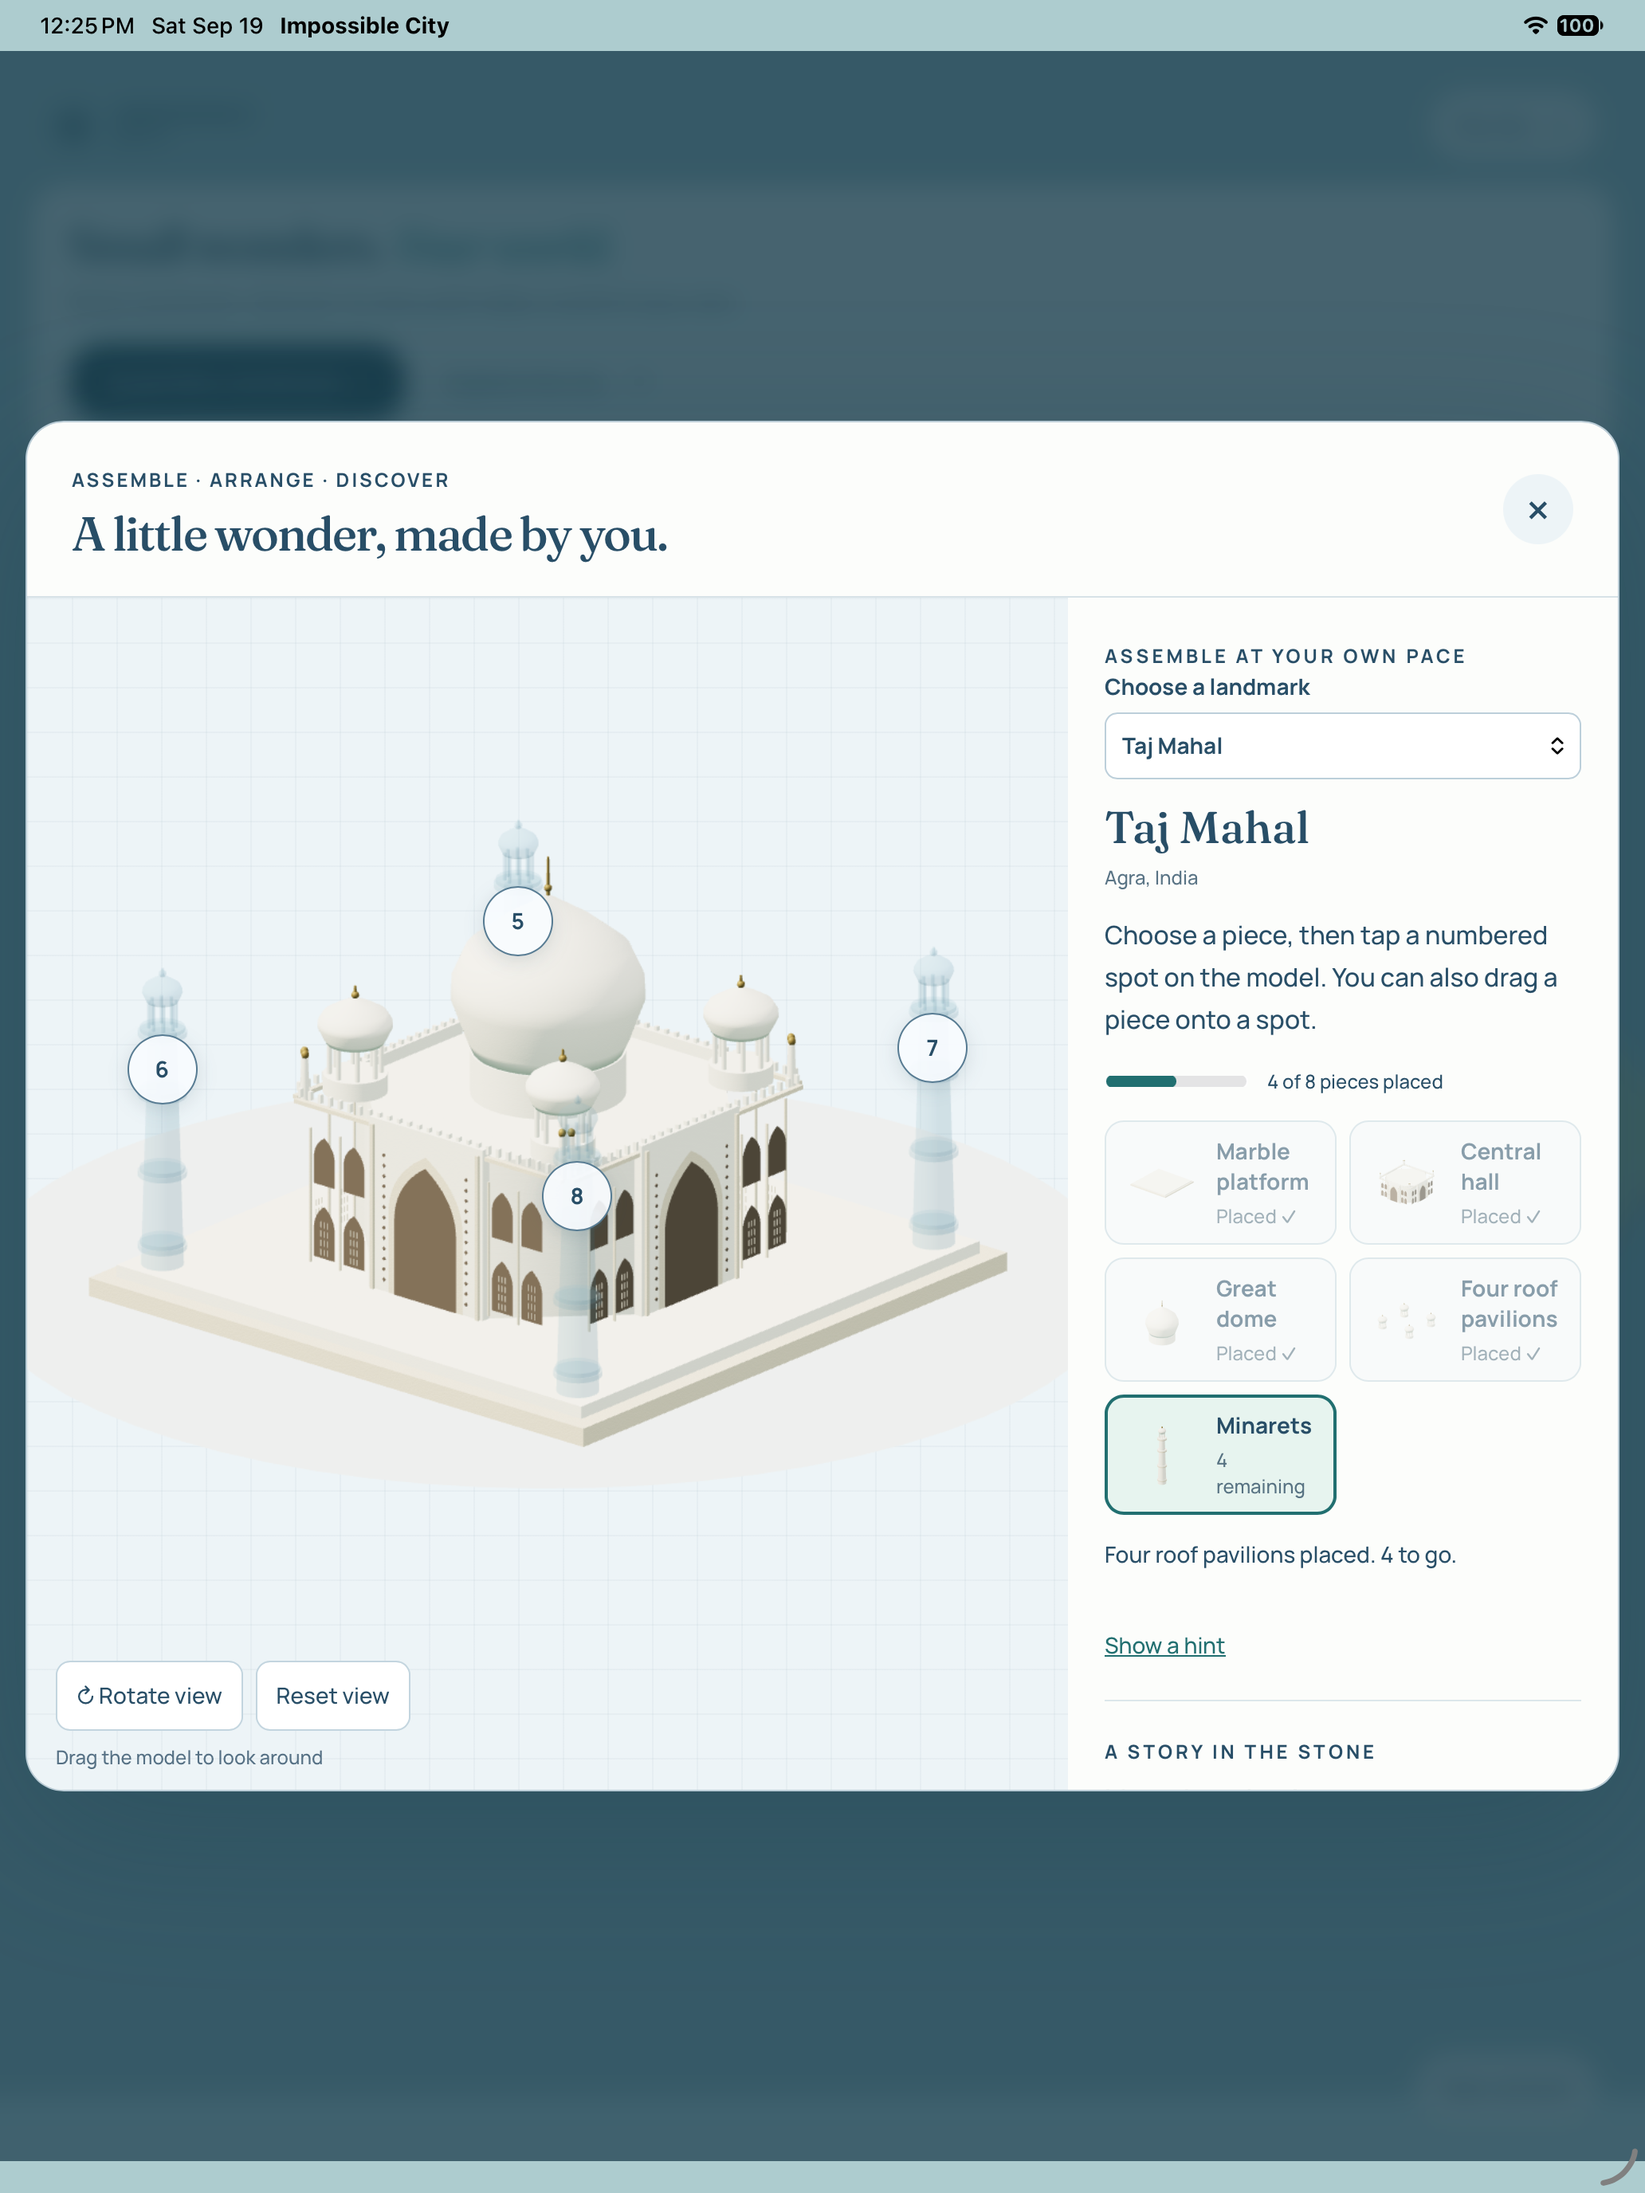
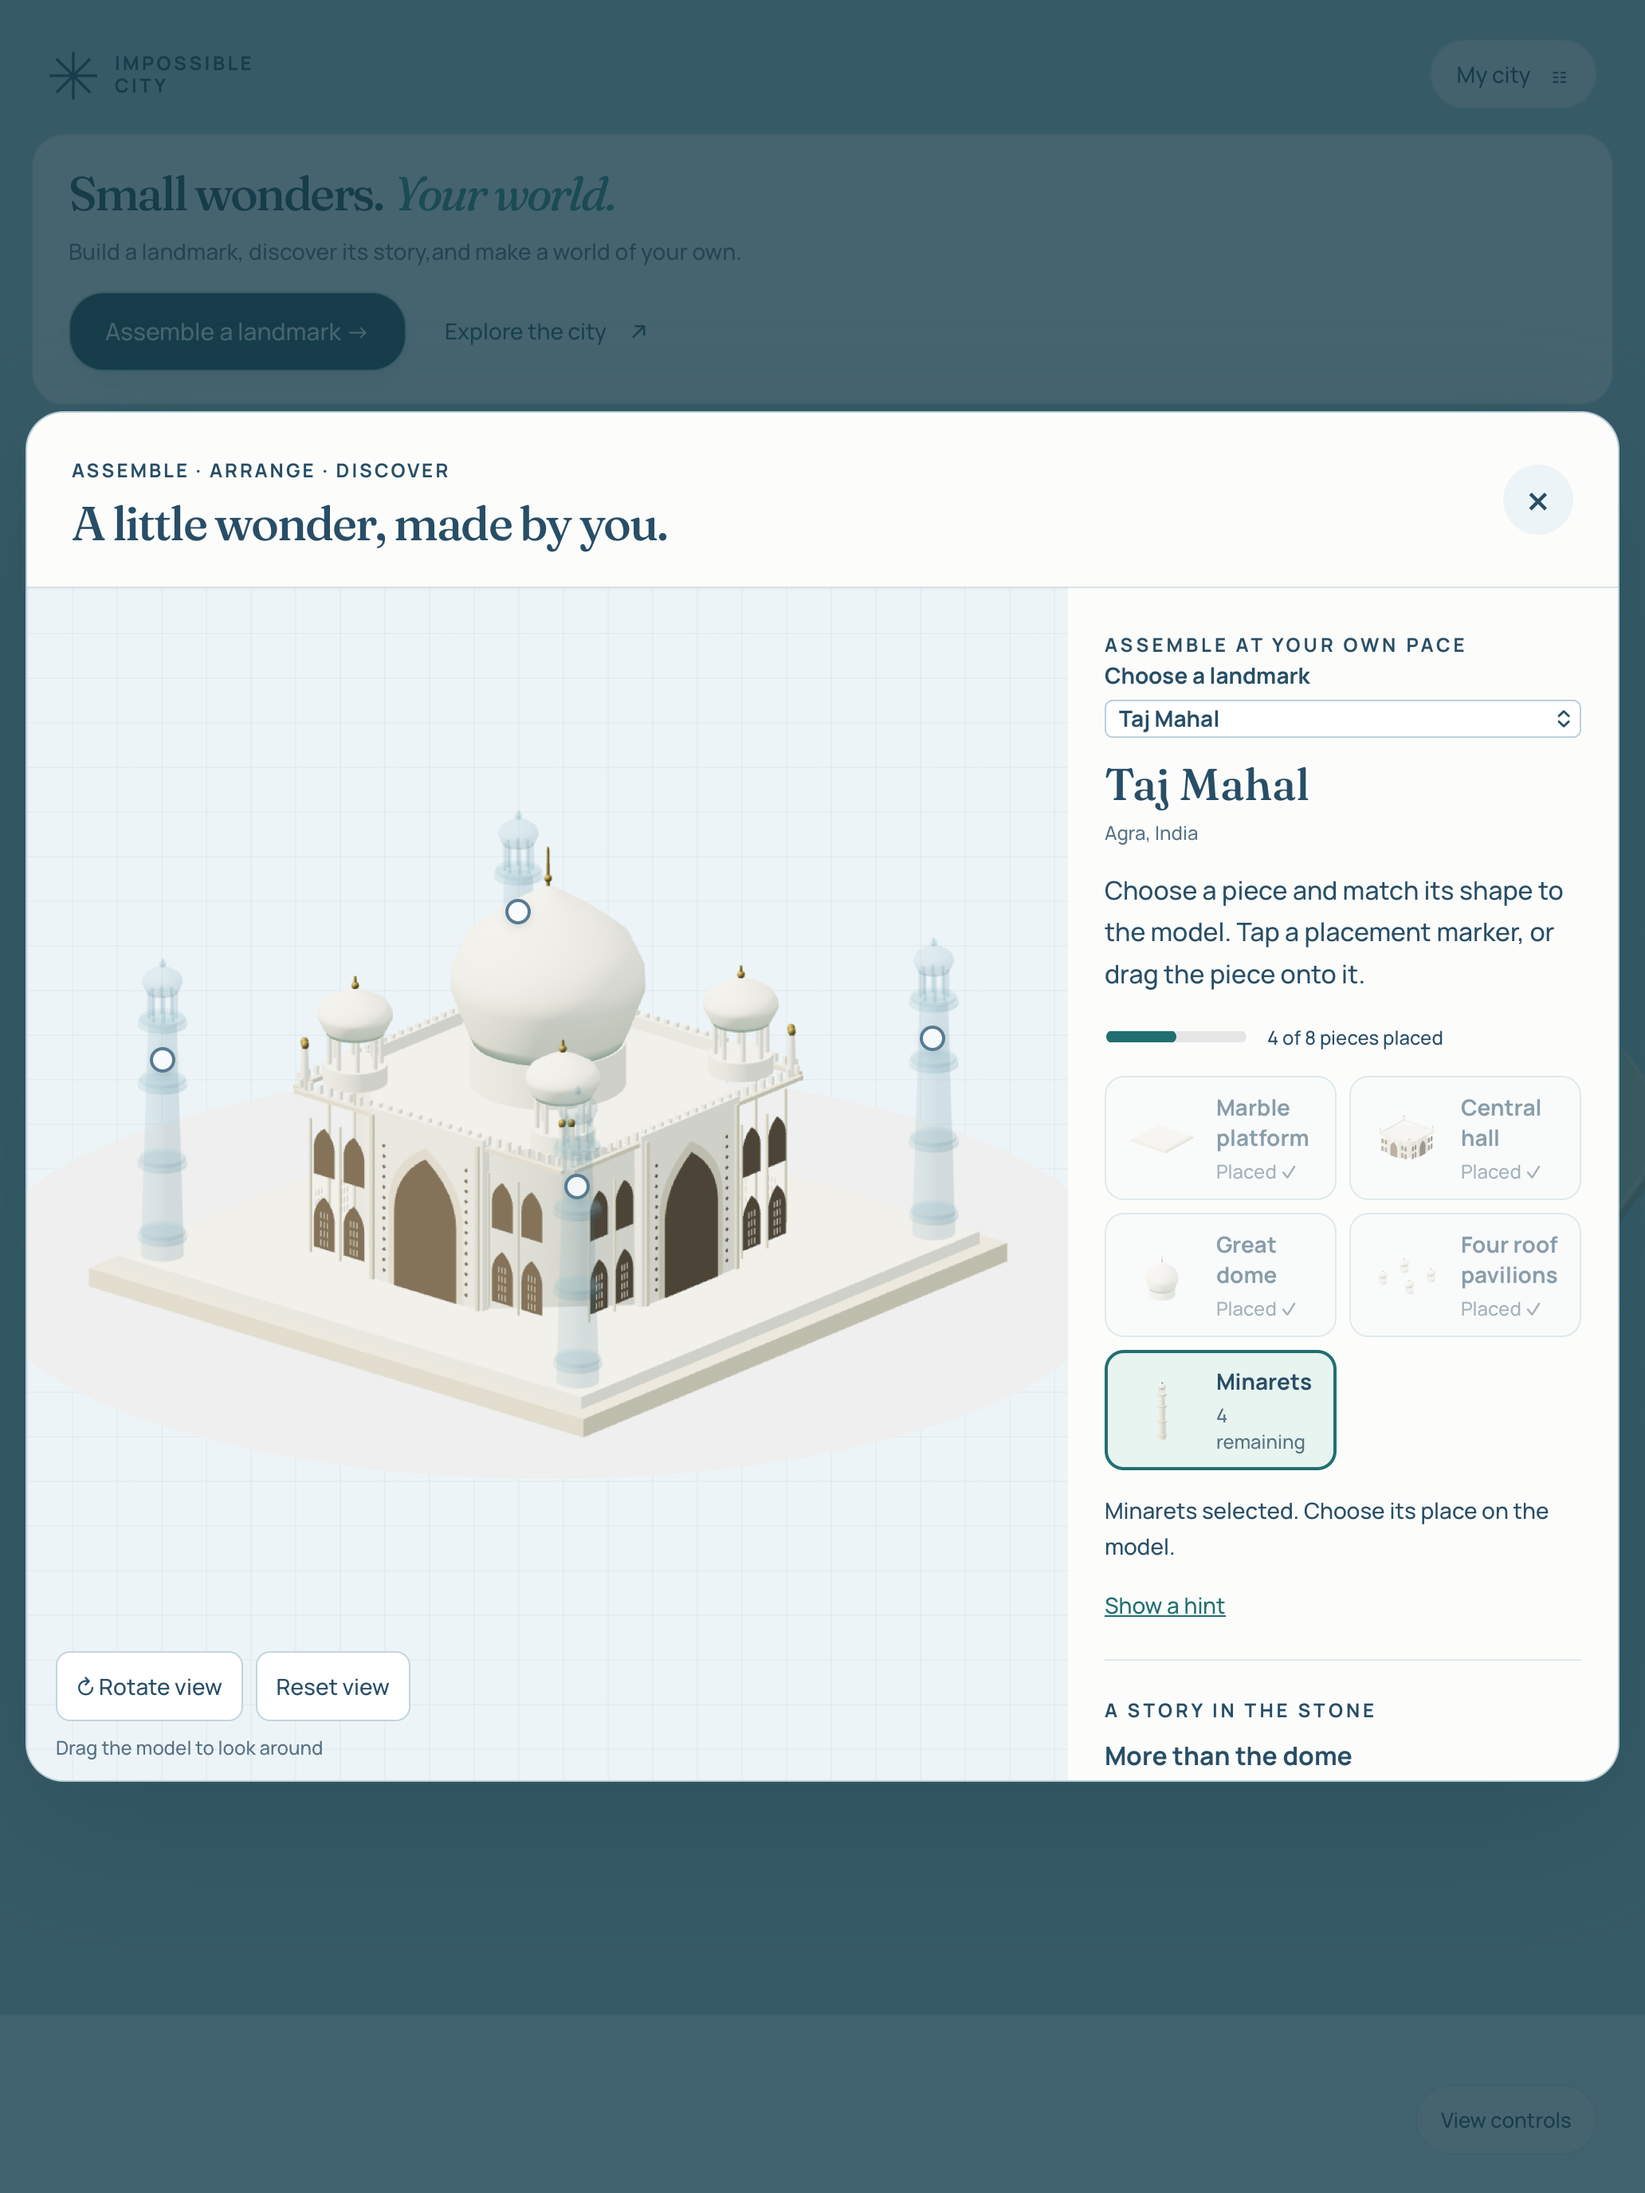
Show numberless assembly and $1.99 landmark pack plan

diff --git a/README.md b/README.md
@@ -24,13 +24,13 @@ Impossible City is being prepared for the Apple App Store. **It is not available
 | Sourced stories and close-up views | Brandenburg Gate and Space Needle |
 | Local progress and city saves | Assembly, stories and views for each added landmark |
 
-The intended launch offer is a free download with a **US $6.99 one-time Pro purchase**, with no subscription. Apple will display regional pricing when the purchase is available. Edition One includes the six additional landmarks above; future editions are separate.
+The intended launch offer is a free download with a **US $1.99 one-time Pro purchase**, with no subscription. Apple will display regional pricing when the purchase is available. Edition One includes the six additional landmarks above. Later add-on packs are planned in batches of six at US $1.99 per pack, sold separately after completion and testing. There is no promised release schedule.
 
 There is no timer. Build at your own pace, move a finished miniature into your city, and discover something about the place that inspired it. Models are artistic interpretations; puzzle sections do not represent historical construction sequences.
 
 ## A look inside
 
-Actual iPad simulator captures of the development candidate:
+A preview of the app in development:
 
 <table><tr><td><img src="assets/01-your-world.png" width="260" alt="The miniature city"></td><td><img src="assets/02-build-a-wonder.png" width="260" alt="Assembling the Taj Mahal"></td><td><img src="assets/03-discover-its-story.png" width="260" alt="Exploring the Eiffel Tower and its stories"></td></tr><tr><td>Your own city</td><td>Build a wonder</td><td>Discover its story</td></tr></table>
 

diff --git a/SUPPORT.md b/SUPPORT.md
@@ -14,7 +14,7 @@ Assembly progress stays on your device. Use Save in My City to keep your city an
 
 ## Pro purchases
 
-The intended US launch price is $6.99 once, with Apple's regional pricing shown in the app. Pro is not a subscription. Edition One contains the six listed additional landmarks; future editions are separate. Use Restore Purchases with the Apple Account that purchased it. Shared Apple-platform ownership still needs final store configuration and validation. Web and Android purchase sharing are not available. There is no external checkout or license-key seller.
+The intended US launch price is $1.99 once, with Apple's regional pricing shown in the app. Pro is not a subscription. Edition One contains the six listed additional landmarks. Future packs are planned as six puzzles for US $1.99 per pack and are separate purchases; they are not available yet. Use Restore Purchases with the Apple Account that purchased it. Shared Apple-platform ownership still needs final store configuration and validation. Web and Android purchase sharing are not available. There is no external checkout or license-key seller.
 
 ## Devices and connectivity
 

diff --git a/CREDITS.md b/CREDITS.md
@@ -9,3 +9,5 @@ Geographic references include [NYC Department of City Planning Borough Boundarie
 The retained bundled development library includes [Statue Of Unity India](https://sketchfab.com/3d-models/statue-of-unity-india-86ec4a3582694b84af4017db0d396398) by [Chenzoss](https://sketchfab.com/Chenzoss), [CC BY 4.0](https://creativecommons.org/licenses/by/4.0/). The source pedestal and visitors were removed; the figure was recentered, normalized to 182 metres, given a bronze material and exported at two levels of detail. It is an artist's interpretation, not an authenticated scan. It is not among the nine playable landmarks in this edition. No endorsement by creators or monument authorities is implied.
 
 The app icon is an original AI-assisted illustration. Screenshots show the actual development app. Third-party licenses do not apply to Impossible City's proprietary app source.
+
+Preview provenance: the city and story images were captured in the native iPad simulator. The updated assembly image is a WebKit capture of the same game UI at the iPad layout size. It is a development preview, not physical-device test evidence.
